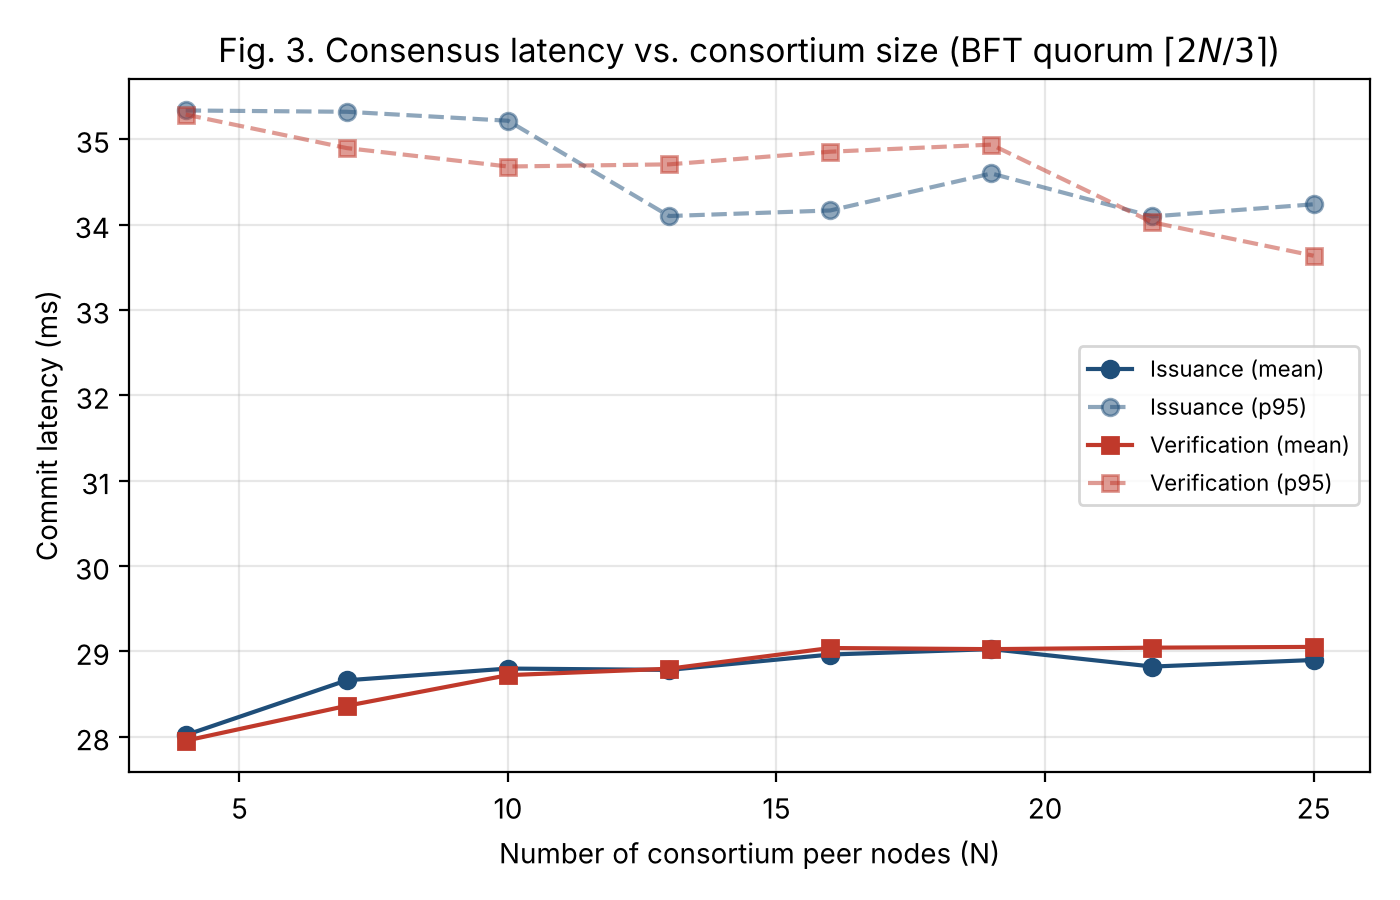
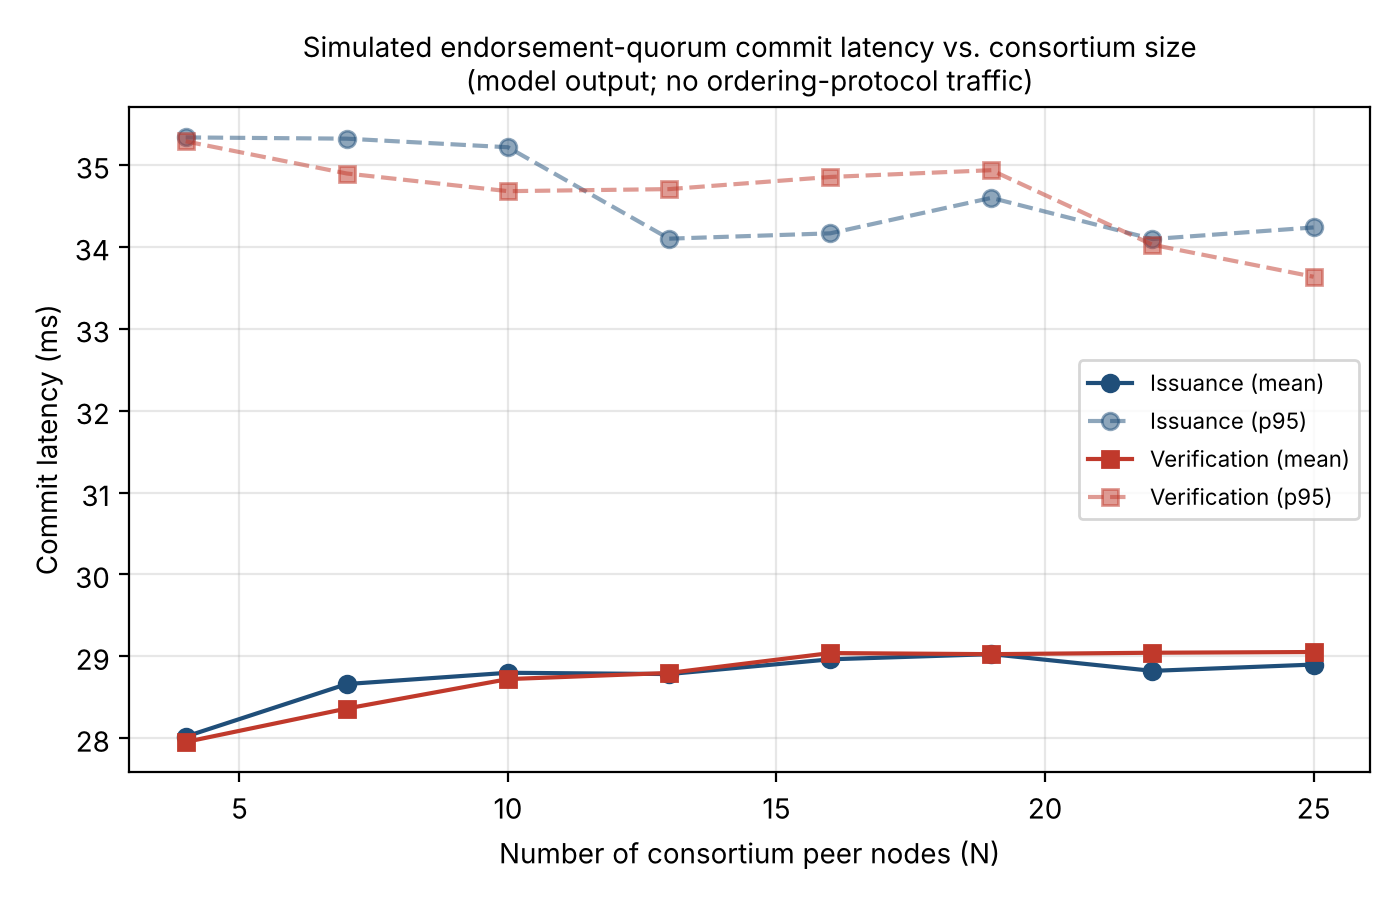
Add matched-FPR analysis for Exp. 3, redraw Fig. 3 with accurate title
Claude-Session: https://claude.ai/code/session_01TBqWKFYaju92fTNdPFwbcp

diff --git a/code/replot_fig3.py b/code/replot_fig3.py
@@ -1,0 +1,13 @@
+"""Redraw Fig. 3 from data/exp1_latency_vs_peers.csv with an accurate title (the simulator does not model BFT ordering)."""
+import os, pandas as pd, matplotlib; matplotlib.use("Agg"); import matplotlib.pyplot as plt
+root = os.path.dirname(os.path.dirname(os.path.abspath(__file__)))
+df = pd.read_csv(os.path.join(root, "data", "exp1_latency_vs_peers.csv"))
+fig, ax1 = plt.subplots(figsize=(7, 4.5), dpi=200)
+ax1.plot(df.num_peers, df.issue_latency_ms_mean, "o-", color="#1f4e79", label="Issuance (mean)")
+ax1.plot(df.num_peers, df.issue_latency_ms_p95, "o--", color="#1f4e79", alpha=0.5, label="Issuance (p95)")
+ax1.plot(df.num_peers, df.verify_latency_ms_mean, "s-", color="#c0392b", label="Verification (mean)")
+ax1.plot(df.num_peers, df.verify_latency_ms_p95, "s--", color="#c0392b", alpha=0.5, label="Verification (p95)")
+ax1.set_xlabel("Number of consortium peer nodes (N)"); ax1.set_ylabel("Commit latency (ms)")
+ax1.set_title("Simulated endorsement-quorum commit latency vs. consortium size\n(model output; no ordering-protocol traffic)", fontsize=10)
+ax1.grid(alpha=0.3); ax1.legend(fontsize=8); fig.tight_layout()
+fig.savefig(os.path.join(root, "figures", "fig3_latency_vs_peers.png")); print("ok")

diff --git a/code/exp3_matched_fpr.py b/code/exp3_matched_fpr.py
@@ -1,0 +1,12 @@
+"""Recall at matched false-positive rates for Experiment 3 (engine vs biometric-only baseline).
+Reads data/exp3_scores.csv (12,000 sessions); writes data/exp3_matched_fpr.csv."""
+import os, numpy as np, pandas as pd
+root = os.path.dirname(os.path.dirname(os.path.abspath(__file__)))
+d = pd.read_csv(os.path.join(root, "data", "exp3_scores.csv"))
+rows = []
+for name, col in [("BZT-ID engine", "zte_score"), ("Biometric-only", "biometric_only")]:
+    leg = d[d.is_attack == 0][col].values; att = d[d.is_attack == 1][col].values
+    for fpr in (0.01, 0.05):
+        thr = np.quantile(leg, fpr)  # flag sessions scoring below thr
+        rows.append({"scheme": name, "target_FPR": fpr, "recall": float((att < thr).mean())})
+out = pd.DataFrame(rows); out.to_csv(os.path.join(root, "data", "exp3_matched_fpr.csv"), index=False); print(out)

diff --git a/code/exp1_scalability.py b/code/exp1_scalability.py
@@ -121,7 +121,7 @@ def plot_exp1(df):
     ax1.plot(df.num_peers, df.verify_latency_ms_p95, "s--", color="#c0392b", alpha=0.5, label="Verification (p95)")
     ax1.set_xlabel("Number of consortium peer nodes (N)")
     ax1.set_ylabel("Commit latency (ms)")
-    ax1.set_title("Fig. 3. Consensus latency vs. consortium size (BFT quorum $\\lceil 2N/3 \\rceil$)")
+    ax1.set_title("Simulated endorsement-quorum commit latency vs. consortium size\n(model output; no ordering-protocol traffic)", fontsize=10)
     ax1.grid(alpha=0.3)
     ax1.legend(fontsize=8)
     fig.tight_layout()
